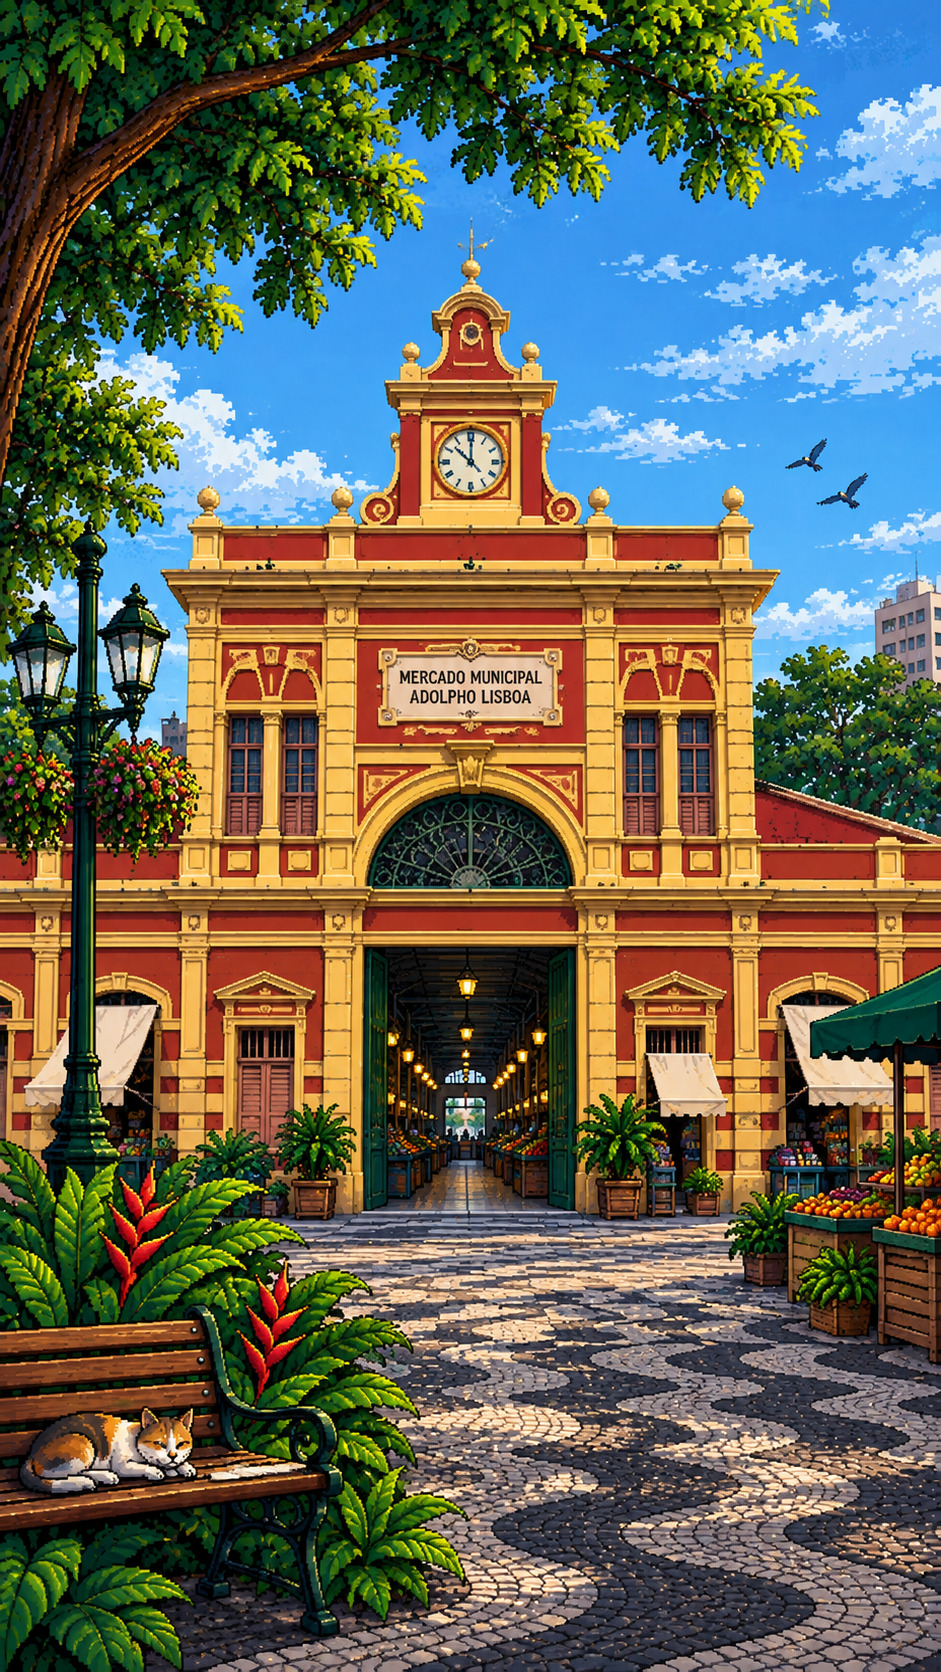
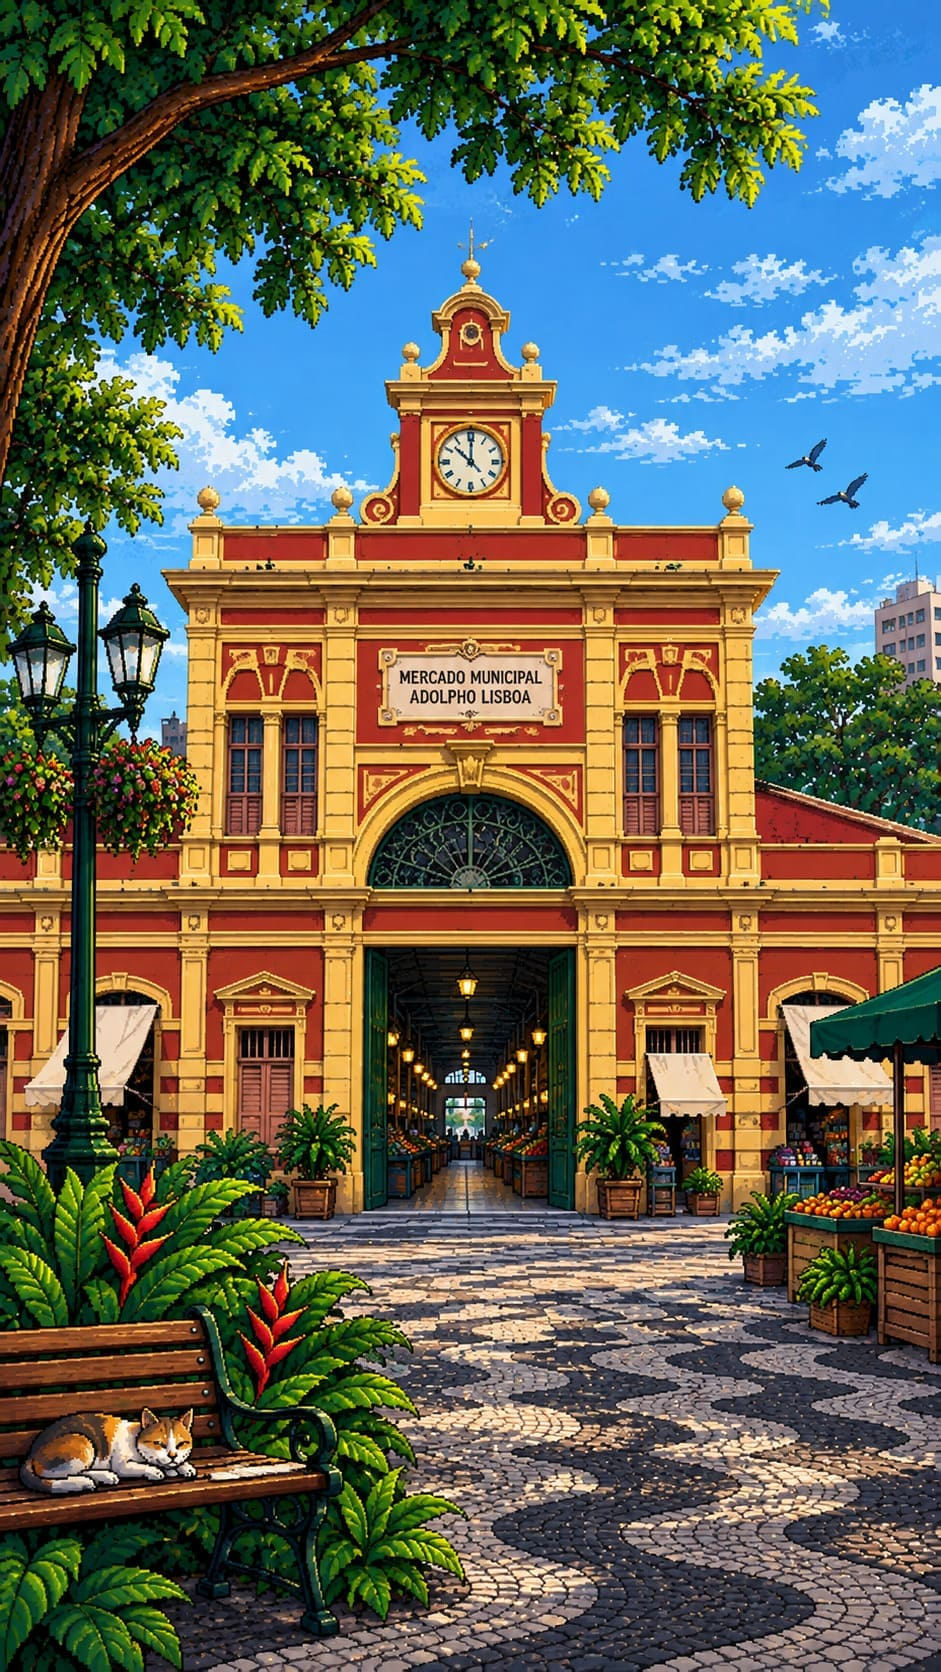
telas de fundo

diff --git a/frontend/style.css b/frontend/style.css
@@ -46,7 +46,7 @@
         height: 100vh;
         max-height: 667px;
         background: var(--mata)
-          url("./img/fundo-manaus.jpg")
+          url("./img/fundo-tela.jpg")
           center / cover no-repeat;
         border: 3px solid var(--folha);
         border-radius: 24px;
@@ -1029,7 +1029,7 @@
         margin-top: 4px;
       }
 
-      /* Fundo exclusivo da fase 1: Teatro Amazonas */
+/* Fundo exclusivo da fase 1: Teatro Amazonas */
 #screen-level[data-fase="1"],
 #screen-quiz[data-fase="1"] {
   background-image:
@@ -1045,6 +1045,46 @@
   background-image:
     linear-gradient(rgba(6, 40, 30, 0.4), rgba(6, 40, 30, 0.4)),
     url("./img/fundo-mercado.jpg");
+  background-size: cover;
+  background-position: center;
+}
+
+/* Fundo exclusivo da fase 3: Praia Ponta Negra */
+#screen-level[data-fase="3"],
+#screen-quiz[data-fase="3"] {
+  background-image:
+    linear-gradient(rgba(6, 40, 30, 0.4), rgba(6, 40, 30, 0.4)),
+    url("./img/fundo-manaus.jpg");
+  background-size: cover;
+  background-position: center;
+}
+
+/* Fundo exclusivo da fase 4: Encontro das Aguas */
+#screen-level[data-fase="4"],
+#screen-quiz[data-fase="4"] {
+  background-image:
+    linear-gradient(rgba(6, 40, 30, 0.4), rgba(6, 40, 30, 0.4)),
+    url("./img/fundo-encontroAguas.jpg");
+  background-size: cover;
+  background-position: center;
+}
+
+/* Fundo exclusivo da fase 5: Musa */
+#screen-level[data-fase="5"],
+#screen-quiz[data-fase="5"] {
+  background-image:
+    linear-gradient(rgba(6, 40, 30, 0.4), rgba(6, 40, 30, 0.4)),
+    url("./img/fundo-musa.jpg");
+  background-size: cover;
+  background-position: center;
+}
+
+/* Fundo exclusivo da fase 6: Ponte Rio Negro*/
+#screen-level[data-fase="6"],
+#screen-quiz[data-fase="6"] {
+  background-image:
+    linear-gradient(rgba(6, 40, 30, 0.4), rgba(6, 40, 30, 0.4)),
+    url("./img/fundo-manaus.jpg");
   background-size: cover;
   background-position: center;
 }
